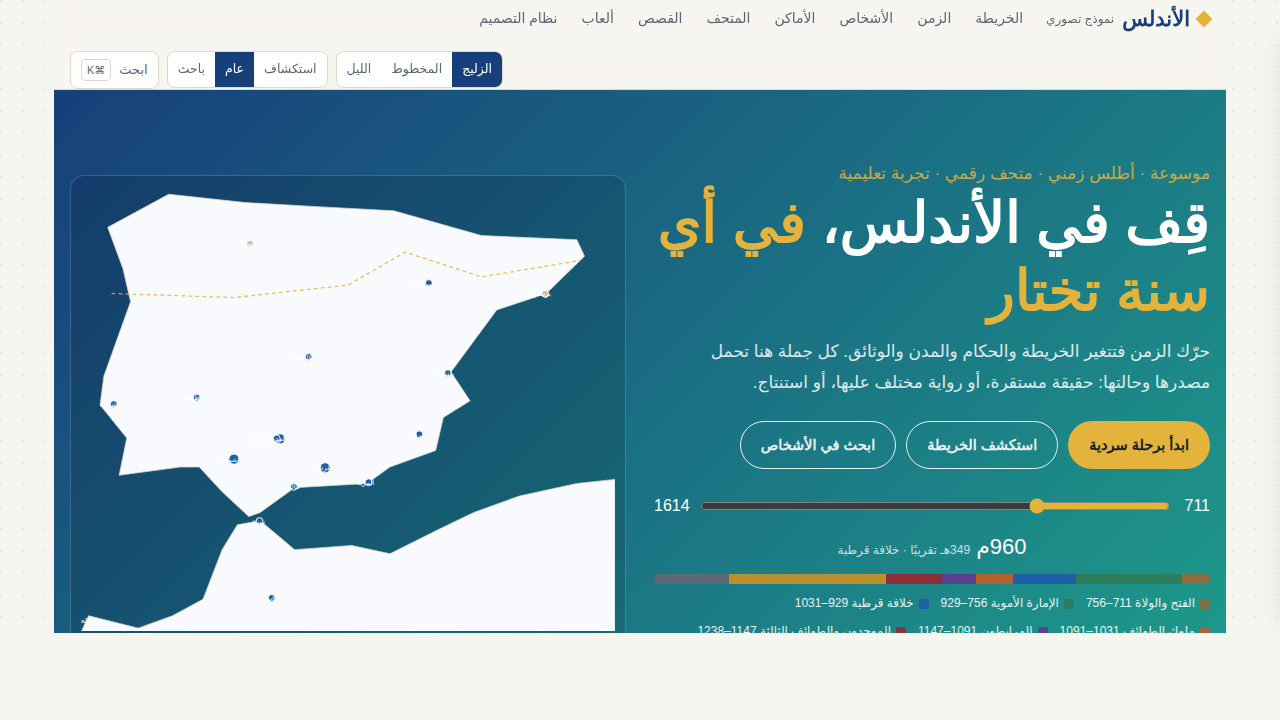
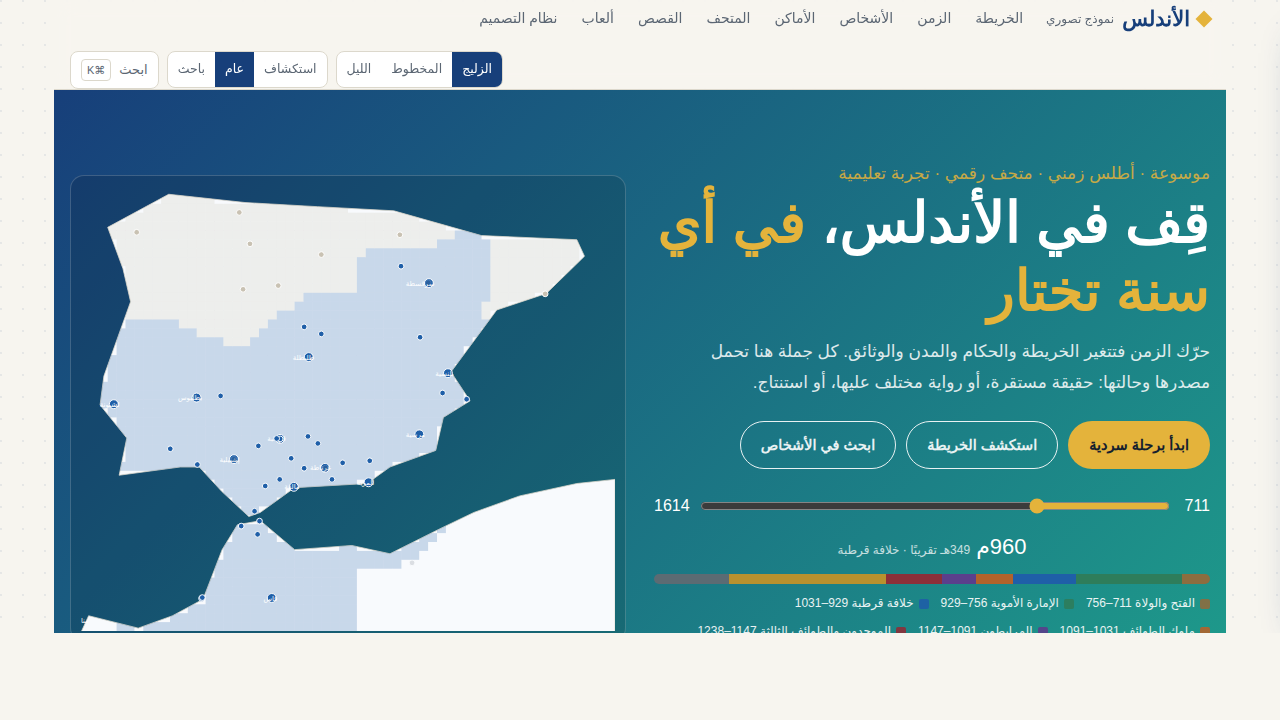
الخريطة الزمنية: مناطق السيطرة مشتقة من بيانات المدن بدل الخط التوضيحي
- كل خلية على الخريطة تأخذ حالة أقرب مدينة موثقة في السنة المختارة (حقل control)، مقصوصة على حدود اليابسة، مع تنبيه أنها تقريب آلي لا حدود تاريخية
- إزالة خطوط الحدود المرسومة يدويًا، وتحديث الفصل 5 وصورة البطاقة

Claude-Session: https://claude.ai/code/session_01ViPp37tcwecWgUt5J3QTDu

Changed region(s): [[0.0625, 0.3056, 0.4062, 0.8861]]

diff --git a/andalus/index.html b/andalus/index.html
@@ -102,7 +102,6 @@
   .map .land{fill:color-mix(in srgb,var(--card) 70%,var(--soft));stroke:var(--line);stroke-width:1.2}
   :root[data-theme="night"] .map .land{fill:#1B2536;stroke:#34405A}
   .map .sea{fill:transparent}
-  .map .frontier{fill:none;stroke:var(--accent);stroke-width:2;stroke-dasharray:6 5;opacity:.85}
   .map .city{cursor:pointer}
   .map .city circle{stroke:#fff;stroke-width:1.5;transition:r .3s var(--ease),fill .4s}
   .map .city text{font-family:var(--body);font-size:11px;fill:var(--ink);pointer-events:none;paint-order:stroke;stroke:var(--bg);stroke-width:3px;stroke-linejoin:round}
@@ -274,23 +273,29 @@ const audienceBox=o=>`${o.kids?`<div class="kids-only panel" style="margin-top:1
 const X=lon=>(lon+10)*60, Y=lat=>(44-lat)*65;
 const IBERIA=[[-1.8,43.4],[-3.8,43.5],[-5.7,43.6],[-7.7,43.8],[-9.3,43.0],[-8.9,42.0],[-8.7,41.2],[-9.4,39.4],[-9.5,38.7],[-8.8,37.9],[-9.0,37.0],[-7.4,37.2],[-6.9,37.2],[-6.3,36.6],[-5.6,36.0],[-5.3,36.1],[-4.4,36.7],[-2.5,36.8],[-1.9,37.2],[-0.7,37.6],[-0.5,38.4],[0.2,38.8],[-0.3,39.5],[0.9,41.0],[2.2,41.4],[3.2,42.3],[3.0,42.7],[0.5,42.8]];
 const MAGHREB=[[-10,33.2],[-9.8,33.6],[-8.5,33.3],[-7.6,33.6],[-6.8,34.0],[-6.3,35.2],[-5.9,35.8],[-5.3,35.9],[-4.4,35.2],[-2.9,35.3],[-1.9,35.1],[-0.6,35.7],[0.3,36.1],[1.5,36.5],[3.0,36.8],[4,36.9],[4,33.2]];
-// خطوط حدود تقريبية توضيحية للنموذج فقط (ليست بيانات موثقة): [سنة، نقاط]
-const FRONTIERS=[[750,[[-9.0,43.2],[-6,43.0],[-3,42.9],[0,42.6],[3,42.4]]],[900,[[-9.2,41.4],[-6,41.3],[-3,41.6],[-1.5,42.4],[0.5,41.8],[3.1,42.2]]],[1000,[[-9.2,41.2],[-6,41.2],[-3,41.4],[-1.5,42.2],[0.5,41.6],[3.1,42.0]]],[1090,[[-9.3,39.6],[-6.5,39.8],[-4.5,40.1],[-2.8,40.6],[-1,41.5],[0.4,41.3],[3.1,42.0]]],[1150,[[-9.3,39.2],[-7,39.4],[-4.5,39.6],[-2.5,39.8],[-0.4,40.0],[0.9,40.6]]],[1230,[[-9.0,37.2],[-7,37.9],[-5,38.2],[-3.5,38.4],[-1.5,38.6],[-0.3,39.4]]],[1260,[[-6.2,36.6],[-5.2,36.9],[-4.4,37.4],[-3.0,37.6],[-2.0,37.4],[-1.7,36.9]]],[1492,null]];
-function frontierFor(y){let f=null;for(const [yr,pts] of FRONTIERS){if(y>=yr)f=pts;}return f;}
+// مناطق السيطرة: تقريب آلي من بيانات control لكل مدينة (أقرب مدينة موثقة في السنة المختارة)، لا حدود تاريخية مرسومة يدويًا
+function inPoly(x,y,pts){let c=false;for(let i=0,j=pts.length-1;i<pts.length;j=i++){const xi=X(pts[i][0]),yi=Y(pts[i][1]),xj=X(pts[j][0]),yj=Y(pts[j][1]);if(((yi>y)!==(yj>y))&&(x<(xj-xi)*(y-yi)/(yj-yi)+xi))c=!c;}return c;}
+const CELL=14, GRID=[];
+for(let gx=CELL/2;gx<840;gx+=CELL)for(let gy=CELL/2;gy<700;gy+=CELL){if(inPoly(gx,gy,IBERIA)||inPoly(gx,gy,MAGHREB))GRID.push([gx,gy]);}
+function zones(y){const cities=Object.values(E).filter(o=>o.type==="Place"&&!o.battle&&y>=o.founded).map(o=>({x:X(o.lon),y:Y(o.lat),c:ctrl(o,y)})).filter(o=>o.c);
+  if(!cities.length)return "";const col={muslim:eraOf(y).c,christian:"var(--christian)"};
+  return GRID.map(([gx,gy])=>{let best=null,bd=1e12;for(const c of cities){const d=(c.x-gx)**2+(c.y-gy)**2;if(d<bd){bd=d;best=c;}}if(bd>140*140)return "";return `<rect x="${gx-CELL/2}" y="${gy-CELL/2}" width="${CELL}" height="${CELL}" fill="${col[best.c]}" opacity=".22"/>`;}).join("");}
 function ctrl(o,y){for(const [a,b,w] of (o.control||[])){if(y>=a&&y<b)return w;}return null;}
+mapSvg.n=0;
 const MAJOR=new Set(["pl:cordoba","pl:seville","pl:granada","pl:toledo","pl:zaragoza","pl:valencia","pl:malaga","pl:almeria","pl:lisbon","pl:fes","pl:marrakesh","pl:badajoz","pl:murcia"]);
 function mapSvg(y,opts={}){
   const path=pts=>pts.map((p,i)=>`${i?"L":"M"}${X(p[0]).toFixed(1)},${Y(p[1]).toFixed(1)}`).join("")+"Z";
-  const fr=frontierFor(y);
   const cities=Object.values(E).filter(o=>o.type==="Place"&&!o.battle);
   const battles=Object.values(E).filter(o=>o.type==="Place"&&o.battle);
+  const cid="land"+(++mapSvg.n);
   return `<svg class="map" viewBox="0 0 840 700" role="img" aria-label="خريطة الأندلس سنة ${y}">
+    <defs><clipPath id="${cid}"><path d="${path(IBERIA)}"/><path d="${path(MAGHREB)}"/></clipPath></defs>
     <path class="land" d="${path(IBERIA)}"/><path class="land" d="${path(MAGHREB)}"/>
-    ${fr?`<path class="frontier" d="${fr.map((p,i)=>`${i?"L":"M"}${X(p[0]).toFixed(1)},${Y(p[1]).toFixed(1)}`).join("")}"/>`:""}
+    <g class="zones" clip-path="url(#${cid})">${zones(y)}</g>
     ${cities.map(o=>{const c=ctrl(o,y);const exists=y>=o.founded;const fill=c==="muslim"?eraOf(y).c:c==="christian"?"var(--christian)":"var(--muted)";
       const label=opts.labels==="all"||MAJOR.has(o.id)||o.id===opts.focus;return `<a class="city ${exists?"":"dim"}" href="${href(o.id)}"><title>${esc(o.name.ar)}</title><circle cx="${X(o.lon)}" cy="${Y(o.lat)}" r="${o.id===opts.focus?9:MAJOR.has(o.id)?7:4.5}" fill="${fill}"${o.id===opts.focus?" stroke=\"var(--accent)\" stroke-width=\"3\"":""}/>${label?`<text x="${X(o.lon)+9}" y="${Y(o.lat)+4}">${esc(o.name.ar)}</text>`:""}</a>`;}).join("")}
     ${battles.filter(b=>Math.abs(b.founded-y)<=40).map(b=>`<a class="battle" href="${href(b.id)}"><path d="M${X(b.lon)},${Y(b.lat)-8} l7,12 h-14z"/><text x="${X(b.lon)+9}" y="${Y(b.lat)+4}" class="note">⚔ ${esc(b.name.ar)} ${b.founded}</text></a>`).join("")}
-    <text x="12" y="688" class="note">الحدود خط تقريبي توضيحي في النموذج؛ في المنصة تُبنى من علاقات controlled_by الموثقة وتُوسم بدرجة اليقين.</text>
+    <text x="12" y="688" class="note">مناطق السيطرة تقريب آلي: كل خلية تأخذ حالة أقرب مدينة موثقة في السنة المختارة (بيانات control)؛ ليست حدودًا تاريخية.</text>
   </svg>`;
 }
 const erasBar=()=>`<div class="eras">${ERAS.map(e=>`<span style="width:${(e.to-e.from)/(1614-711)*100}%;background:${e.c}" title="${e.name}"></span>`).join("")}</div><div class="eralegend">${ERAS.map(e=>`<span><i style="background:${e.c}"></i>${e.name} ${e.from}–${e.to}</span>`).join("")}</div>`;

diff --git a/andalus/05-experience.md b/andalus/05-experience.md
@@ -10,7 +10,7 @@
 |---|---|
 | ما يراه الزائر | خريطة شبه الجزيرة الإيبيرية وشمال المغرب، مع شريط زمن من 711 إلى 1614. تحريك الشريط يلوّن المناطق حسب الدولة المسيطرة، وتظهر/تختفي المدن والمعالم بحسب تأسيسها. |
 | الطبقات | حدود سياسية (بدرجة يقين: خط متصل/متقطع)، مدن، معالم، معارك، طرق التجارة والحج، رحلات العلماء، المخطوطات بحسب مكان نسخها. |
-| مصدر البيانات | حواف `controlled_by(from,to)` و`took_place_at` في الرسم. الحدود التقريبية تُوسم صراحة **«تقريبية»** لأن الحدود الوسيطة لم تكن خطوطًا. |
+| مصدر البيانات | حواف `controlled_by(from,to)` و`took_place_at` في الرسم. الحدود التقريبية تُوسم صراحة **«تقريبية»** لأن الحدود الوسيطة لم تكن خطوطًا. **في النموذج الحالي**: مناطق السيطرة تُشتق آليًا من حقل `control` لكل مدينة (كل خلية على الخريطة تأخذ حالة أقرب مدينة موثقة في السنة المختارة)، ولا يوجد خط حدود مرسوم يدويًا. |
 | التقنية | MapLibre GL + بلاطات خريطة أساس حديثة بألوان مطفأة، وطبقة GeoJSON للحدود لكل «لقطة» زمنية (Snapshots كل 25 سنة تقريبًا + سنوات التحول). |
 | MVP | 8 لقطات زمنية، 40 مدينة، 15 معركة. |
 | لاحقًا | مقارنة لقطتين جنبًا إلى جنب، خريطة حرارية للعلماء بحسب القرن، تصدير الخريطة صورة. |
